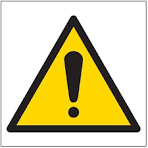
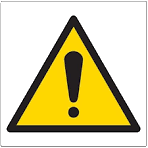
Point business : icône d'alerte, titres R/O centrés, méthode centrée
Claude-Session: https://claude.ai/code/session_01AUV1yuJpz3fVwZUCn4ViF7

diff --git a/scripts/point-business/build.js b/scripts/point-business/build.js
@@ -80,7 +80,7 @@ s.addText('R/O ' + D.dateRO, { placeholder: 'titre' });
 function roTable(y) {
   const bd = { type: 'solid', color: '3A3426', pt: 0.5 };
   const cols = D.ro.colonnes, n = cols.length, nameW = 0.85, cw = (W - 0.2 - nameW) / n;
-  const rows = [['', ...cols].map(t => ({ text: t, options: { bold: true, color: GOLD2, fill: { color: DARK }, align: 'center', valign: 'middle', fontSize: 11, textDirection: 'vert270', border: bd } }))];
+  const rows = [['', ...cols].map(t => ({ text: '', options: { fill: { color: DARK }, border: bd } }))];
   D.ro.lignes.forEach(l => {
     const r = [{ text: l[0], options: { bold: true, color: WHITE, fill: { color: DARK }, fontSize: 9.5, align: 'left', border: bd } }];
     for (let i = 1; i <= n; i++) {
@@ -93,6 +93,13 @@ function roTable(y) {
   s.addTable(rows, { x: 0.1, y, w: W - 0.2, colW: [nameW, ...cols.map(() => cw)], rowH: [1.3, ...D.ro.lignes.map(() => 0.5)], fontFace: 'Calibri', margin: [0, 0.01, 0, 0.01], valign: 'middle', objectName: 'Tableau R/O' });
 }
 roTable(2.4);
+{ // titres des colonnes : zones de texte tournées de 270°, centrées exactement sur chaque colonne
+  const n = D.ro.colonnes.length, nameW = 0.85, cw = (W - 0.2 - nameW) / n, hh = 1.3, cy = 2.4 + hh / 2;
+  D.ro.colonnes.forEach((t, i) => {
+    const cx = 0.1 + nameW + cw * (i + 0.5);
+    s.addText(t, { x: cx - hh / 2, y: cy - cw / 2, w: hh, h: cw, rotate: 270, fontFace: 'Calibri', fontSize: 11, bold: true, color: GOLD2, align: 'center', valign: 'middle', margin: 0, isTextBox: true, objectName: 'Titre ' + t });
+  });
+}
 
 // ---- 3b. Goodays + Notes Google
 s = pres.addSlide({ masterName: 'Page' });
@@ -105,6 +112,7 @@ s.addImage({ path: A('google.png'), x: 3.8, y: 8.92, w: 1.5, h: 1.5 * 0.3135 });
   const hd = ['', '', 'Note moyenne', 'Réponses'].map((t, i) => ({ text: t, options: { bold: true, color: GOLD2, fill: { color: DARK }, fontSize: 12, align: i > 1 ? 'right' : 'left' } }));
   const rows = [hd].concat(D.notesGoogle.map(r => r.map((t, i) => ({ text: t, options: { color: WHITE, fill: { color: BLACK }, fontSize: 14, bold: i > 1, align: i > 1 ? 'right' : 'left', border: [{ type: 'none' }, { type: 'none' }, { type: 'solid', color: '3A3426', pt: 0.75 }, { type: 'none' }] } }))));
   s.addTable(rows, { x: 0.6, y: 9.55, w: 6.3, colW: [0.5, 2.9, 1.7, 1.2], rowH: 0.45, fontFace: 'Calibri', margin: [0, 0.08, 0, 0.08], valign: 'middle', objectName: 'Notes Google' });
+  s.addImage({ path: A('warning.png'), x: 4.7, y: 11.35 + (0.45 - 0.34) / 2 + 0.0, w: 0.34, h: 0.34, objectName: 'Alerte Gradignan' });
 }
 
 // ---- 4. Scoring général
@@ -113,7 +121,7 @@ s.addText('SCORING GENERAL\n' + D.dateScoring, { placeholder: 'titre' });
 barChart(s, D.scoring.valeurs, { y: 2.3, h: 5.3, name: 'Score', extra: { valAxisMinVal: 0, valAxisMaxVal: 22, dataLabelFormatCode: '0.00' } });
 s.addShape(pres.shapes.RECTANGLE, { x: 0.4, y: 7.7, w: 6.7, h: 1.7, fill: { color: DARK }, line: { color: GOLD, width: 1.25 }, objectName: 'Méthode' });
 s.addText(D.scoring.methode.map((t, i) => ({ text: t, options: { bold: true, color: i === 0 ? GOLD2 : WHITE, underline: i === 0 ? { style: 'sng' } : undefined, breakLine: i < D.scoring.methode.length - 1 } })),
-  { x: 0.5, y: 7.75, w: 6.5, h: 1.6, fontFace: 'Calibri', fontSize: 12, valign: 'top', margin: 0, isTextBox: true });
+  { x: 0.5, y: 7.75, w: 6.5, h: 1.6, fontFace: 'Calibri', fontSize: 12, align: 'center', valign: 'middle', margin: 0, isTextBox: true });
 podium(s, D.scoring.podium, 12.6);
 
 // ---- 5. Suivi des points
